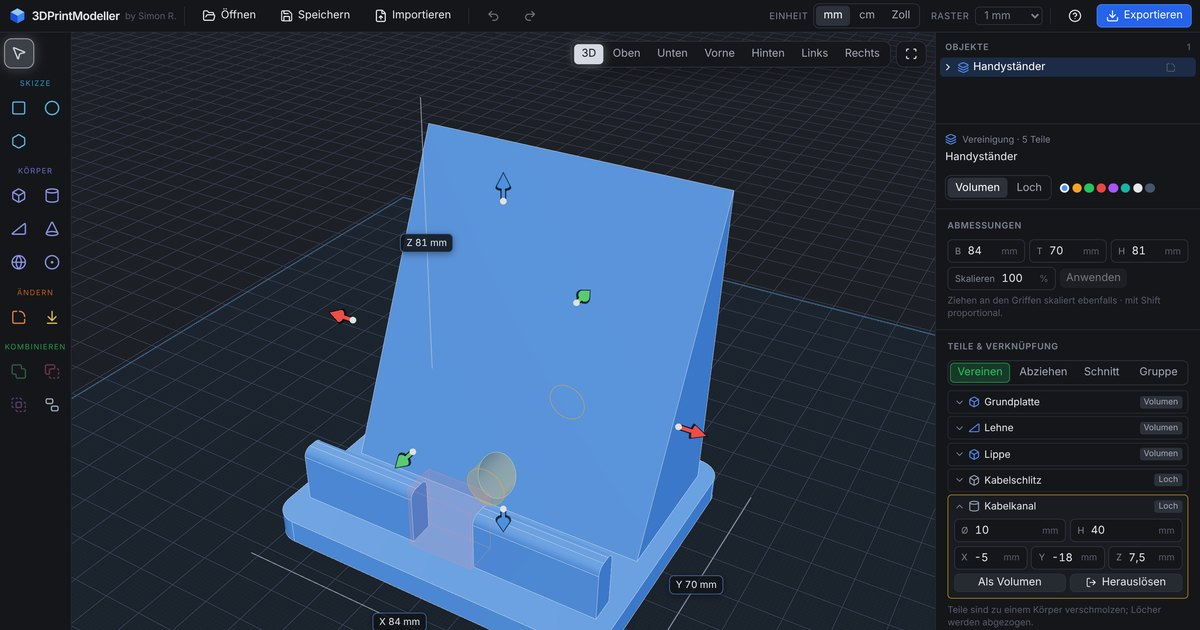
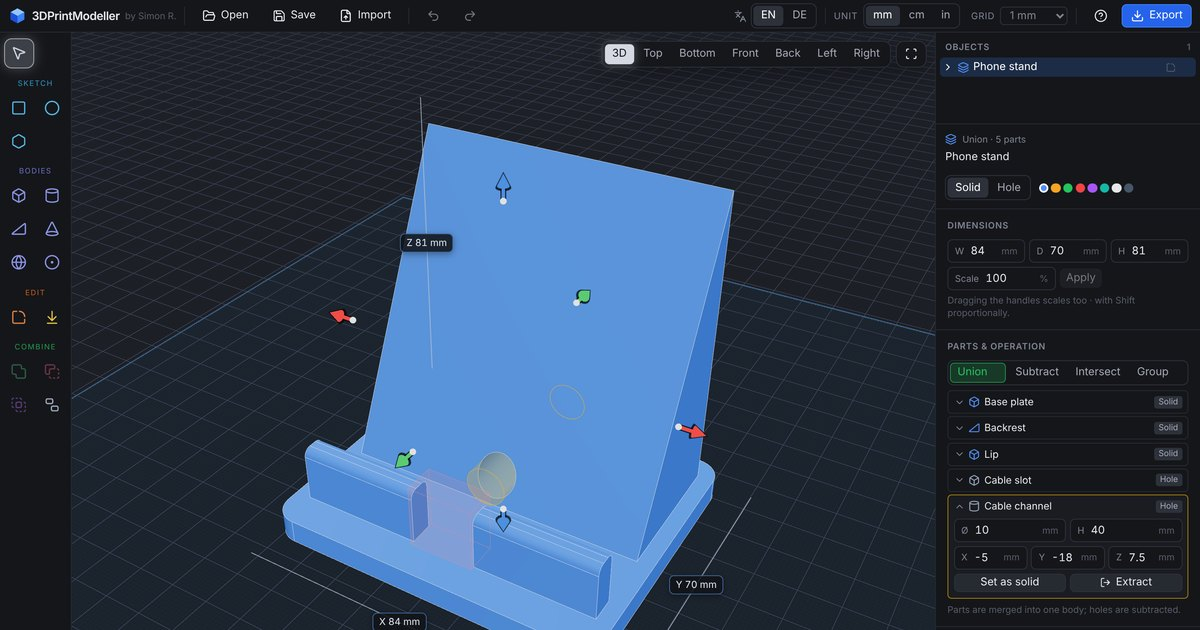
English by default with an EN/DE language switch, English README
- All interface texts are English in the code and translated through a small
  i18n helper with a German dictionary; numbers follow the language
  (2.5 mm / 2,5 mm); CAD worker messages are translated by pattern
- EN/DE switch in the top bar and on the welcome screen, remembered per browser
- Context keys keep German wording where one English word needs two German
  ones (button "Vereinen" vs. body name "Vereinigung")
- Tech chips on the about page explain themselves (e.g. Zustand = state
  management)
- README in English with English screenshots, German version in README.de.md

Claude-Session: https://claude.ai/code/session_013SVBew9JzvVsFbRaBw122J

diff --git a/src/ui/Chrome.tsx b/src/ui/Chrome.tsx
@@ -51,13 +51,29 @@ import { MODE_COLOR, MODE_NAME } from "./Overlays";
 import { AXIS_COLOR, viewAxis } from "../lib/planes";
 import { setLang, t, useLang } from "../i18n";
 
+/** EN | DE switch (top bar and welcome screen) */
+export function LangToggle() {
+  const lang = useLang((s) => s.lang);
+  return (
+    <div className="flex items-center gap-1.5 text-ink-400" title={t("Language")}>
+      <Languages size={15} />
+      <div className="seg">
+        {(["en", "de"] as const).map((l) => (
+          <button key={l} className={l === lang ? "on" : ""} onClick={() => setLang(l)}>
+            {l.toUpperCase()}
+          </button>
+        ))}
+      </div>
+    </div>
+  );
+}
+
 export function TopBar() {
   const canUndo = useStore((s) => s.past.length > 0);
   const canRedo = useStore((s) => s.future.length > 0);
   const unit = useStore((s) => s.doc.settings.unit);
   const snap = useStore((s) => s.doc.settings.snap);
   const opts = SNAP_OPTIONS[unit];
-  const lang = useLang((s) => s.lang);
   return (
     <header className="h-12 shrink-0 flex items-center gap-2 px-3 bg-ink-900 border-b border-ink-750">
       <button
@@ -87,16 +103,7 @@ export function TopBar() {
       </button>
       <div className="flex-1" />
       <div className="flex items-center gap-2 text-ink-400">
-        <div className="flex items-center gap-1.5" title={t("Language")}>
-          <Languages size={15} />
-          <div className="seg">
-            {(["en", "de"] as const).map((l) => (
-              <button key={l} className={l === lang ? "on" : ""} onClick={() => setLang(l)}>
-                {l.toUpperCase()}
-              </button>
-            ))}
-          </div>
-        </div>
+        <LangToggle />
         <div className="w-px h-6 bg-ink-750 mx-1" />
         <span className="text-[11px] uppercase tracking-wider">{t("Unit")}</span>
         <div className="seg">

diff --git a/src/ui/Sidebar.tsx b/src/ui/Sidebar.tsx
@@ -254,7 +254,7 @@ function BodyProps({ body }: { body: Body }) {
       <div className="px-3.5 pt-3 pb-3">
         <div className="flex items-center gap-2 text-ink-400 text-[11px] mb-1">
           <span style={{ color: body.hole ? "#94a3b8" : body.color }}>{ICON[body.shape.kind]}</span>
-          {body.shape.kind === "group" ? t(OP_NAME[body.shape.op ?? "union"]) : t(KIND_LABEL[body.shape.kind])}
+          {body.shape.kind === "group" ? t(`name|${OP_NAME[body.shape.op ?? "union"]}`) : t(KIND_LABEL[body.shape.kind])}
           {body.shape.kind === "group" && ` · ${t("{count} parts", { count: body.shape.children.length })}`}
         </div>
         <NameField value={body.name} onChange={(name) => updateBody(body.id, { name })} />
@@ -485,7 +485,7 @@ function ShapeParams({ body, onShape }: { body: Body; onShape?: (shape: Shape) =
       return (
         <div className="grid grid-cols-3 gap-1.5">
           <LenField label="Ø" title={t("Outer diameter")} mm={s.d} min={min} onChange={(d) => set({ ...s, d, t: Math.min(s.t, d / 2 - 0.01) })} />
-          <LenField label="W" title={t("Wall thickness")} mm={s.t} min={0.05} onChange={(t) => set({ ...s, t: Math.min(t, s.d / 2 - 0.01) })} />
+          <LenField label={t("Wall")} title={t("Wall thickness")} mm={s.t} min={0.05} onChange={(t) => set({ ...s, t: Math.min(t, s.d / 2 - 0.01) })} />
           <LenField label={t("H")} title={t("Height")} mm={s.h} min={min} onChange={(h) => set({ ...s, h })} />
         </div>
       );

diff --git a/src/ui/PlanePanel.tsx b/src/ui/PlanePanel.tsx
@@ -7,7 +7,7 @@ import { planeSnapTargets } from "../lib/planeSnap";
 import { fmtLen, snapTo } from "../lib/units";
 import { INSET_ID, insetMmPerPx, invalidateInset, usePlaneTarget } from "../viewport/PlaneInset";
 import { LenField } from "./fields";
-import { t } from "../i18n";
+import { t, useLang } from "../i18n";
 
 const COLLAPSE_KEY = "printmodeller.planePanel.collapsed";
 
@@ -100,7 +100,9 @@ export function PlanePanel() {
   const viewRef = useRef<HTMLDivElement>(null);
   const plane = target?.plane;
   const axis = plane ? PLANE_AXIS[plane.orient] : 2;
-  const targets = useMemo(() => (plane ? planeSnapTargets(axis) : []), [plane ? axis : -1, bodies, meshes]); // eslint-disable-line react-hooks/exhaustive-deps
+  const lang = useLang((s) => s.lang);
+  // labels are translated when built, so the language is a dependency too
+  const targets = useMemo(() => (plane ? planeSnapTargets(axis) : []), [plane ? axis : -1, bodies, meshes, lang]); // eslint-disable-line react-hooks/exhaustive-deps
 
   // the canvas only redraws on demand: ask for a frame whenever the preview appears or changes size
   useLayoutEffect(() => {

diff --git a/src/ui/Dialogs.tsx b/src/ui/Dialogs.tsx
@@ -4,6 +4,7 @@ import type { ExportFormat, ExportQuality, Unit } from "../types";
 import { useStore } from "../store/store";
 import { createEmptyProject, createExampleProject, createPhoneStandProject, useProjects } from "../store/projects";
 import { Logo } from "./Logo";
+import { LangToggle } from "./Chrome";
 import { Pitch } from "./About";
 import { exportModel } from "../cad/client";
 import { DEFAULT_SNAP, SNAP_OPTIONS } from "../lib/units";
@@ -55,6 +56,11 @@ export function StartDialog() {
           <div className="text-[18px] font-semibold">{firstVisit ? t("Let's get started") : t("New project")}</div>
           <div className="text-ink-400 text-[12.5px]">{firstVisit ? t("Create your first project.") : t("Your current project stays saved.")}</div>
         </div>
+        {firstVisit && (
+          <div className="ml-auto self-start">
+            <LangToggle />
+          </div>
+        )}
       </div>
       <div className="text-ink-300 mt-5 mb-2 text-[12.5px]">{t("Which unit do you work in?")}</div>
       <div className="grid grid-cols-3 gap-2">

diff --git a/src/store/store.ts b/src/store/store.ts
@@ -756,7 +756,7 @@ export function combineSelection(op: BoolOp) {
   const base = children.find((c) => !c.hole) ?? children[0];
   const group: Body = {
     id: uid(),
-    name: nextName(doc, t(OP_NAME[op])),
+    name: nextName(doc, t(`name|${OP_NAME[op]}`)),
     shape: { kind: "group", children, op },
     position: [0, 0, 0],
     quaternion: [0, 0, 0, 1],
@@ -787,8 +787,8 @@ export function setGroupOp(id: string, op: BoolOp) {
   if (from === op) return;
   const children = rolesFor(op, g.shape.children, from);
   // the name may come from either language
-  const prefix = [t(OP_NAME[from]), OP_NAME[from]].find((p) => g.name.startsWith(p));
-  const name = prefix ? t(OP_NAME[op]) + g.name.slice(prefix.length) : g.name;
+  const prefix = [t(`name|${OP_NAME[from]}`), OP_NAME[from]].find((p) => g.name.startsWith(p));
+  const name = prefix ? t(`name|${OP_NAME[op]}`) + g.name.slice(prefix.length) : g.name;
   updateBody(id, { name, shape: { ...g.shape, op, children }, hole: children.every((c) => c.hole) });
 }
 

diff --git a/src/ui/ContextBar.tsx b/src/ui/ContextBar.tsx
@@ -80,7 +80,7 @@ export function ContextBar() {
             onClick={() => setTool("edit")}
           />
         )}
-        <CtxButton icon={<ArrowDownToLine size={16} />} label={t("Lay flat")} kbd="L" color={TOOL_COLOR.layflat} tip={t("Click a face that should rest on the bed")} onClick={() => setTool("layflat")} />
+        <CtxButton icon={<ArrowDownToLine size={16} />} label={t("btn|Lay flat")} kbd="L" color={TOOL_COLOR.layflat} tip={t("Click a face that should rest on the bed")} onClick={() => setTool("layflat")} />
         <CtxButton icon={<RotateCw size={16} />} kbd="E" tip={t("Rotate 90° around the vertical axis")} color={TOOL_COLOR.select} onClick={() => rotateSelection(2, -90)} />
         <CtxButton icon={<LocateFixed size={16} />} kbd="M" tip={t("Center on the print bed (on the grid), Shift+M: exact")} color={TOOL_COLOR.select} onClick={() => centerOnBed(false)} />
         {!mesh && (

diff --git a/src/i18n/index.ts b/src/i18n/index.ts
@@ -41,15 +41,21 @@ type Vars = Record<string, string | number>;
 
 const missing = new Set<string>();
 
+/**
+ * A key may carry a context before a "|" when one English word needs two German ones,
+ * e.g. "name|Union" (a body called "Vereinigung") versus "Union" (the button "Vereinen").
+ */
+const plain = (key: string) => key.slice(key.indexOf("|") + 1);
+
 function lookup(key: string): string {
-  if (getLang() === "en") return key;
+  if (getLang() === "en") return plain(key);
   const hit = DE[key];
   if (hit !== undefined) return hit;
   if (import.meta.env.DEV && !missing.has(key)) {
     missing.add(key);
     console.warn(`[i18n] missing German text for: ${JSON.stringify(key)}`);
   }
-  return key;
+  return plain(key);
 }
 
 function fill(text: string, vars?: Vars) {

diff --git a/src/i18n/de/core.ts b/src/i18n/de/core.ts
@@ -10,7 +10,11 @@ const de: Record<string, string> = {
   Prism: "Prisma",
   Group: "Gruppe",
   Imported: "Import",
-  Union: "Vereinigung",
+  // names of combined bodies ("Vereinigung 1"); the buttons say "Vereinen" etc.
+  "name|Union": "Vereinigung",
+  "name|Difference": "Differenz",
+  "name|Intersection": "Schnittmenge",
+  "name|Group": "Gruppe",
   Difference: "Differenz",
   Intersection: "Schnittmenge",
   Sketch: "Skizze",

diff --git a/src/ui/ops.tsx b/src/ui/ops.tsx
@@ -28,7 +28,8 @@ export const OPS: { op: BoolOp; label: string; short: string; icon: (size: numbe
   },
   {
     op: "group",
-    label: "Group",
+    // "op|": the button says "Gruppieren" in German, a body of this kind is a "Gruppe"
+    label: "op|Group",
     short: "Group",
     icon: (s) => <Group size={s} />,
     tip: "Just bundle them (move and scale together), the parts stay separate volumes",

diff --git a/src/i18n/de/sidebar.ts b/src/i18n/de/sidebar.ts
@@ -1,5 +1,6 @@
 /** German texts for the properties panel (src/ui/Sidebar.tsx) */
 const de: Record<string, string> = {
+  Wall: "W",
   // scene tree
   Objects: "Objekte",
   "Nothing here yet. Draw a sketch or add a body.": "Noch nichts da. Zeichne eine Skizze oder füge einen Körper ein.",

diff --git a/src/i18n/de/ui.ts b/src/i18n/de/ui.ts
@@ -45,6 +45,8 @@ const de: Record<string, string> = {
 
   // combine operations (OPS in ops.tsx)
   Union: "Vereinen",
+  "op|Group": "Gruppieren",
+  "btn|Lay flat": "Aufs Bett",
   Subtract: "Abziehen",
   Intersection: "Schnittmenge",
   Intersect: "Schnitt",

diff --git a/README.md b/README.md
@@ -101,7 +101,7 @@ Everything runs in the browser, no installation, no account: **[3d-print-modelle
 
 ## Example: phone stand
 
-In the start dialog under **“Or open an example”** you can open the phone stand from the picture above.
+In the start dialog under **“Or explore an example”** you can open the phone stand from the picture above.
 It shows the typical workflow:
 
 1. **Base plate**: a box, 84 × 70 × 6 mm.
